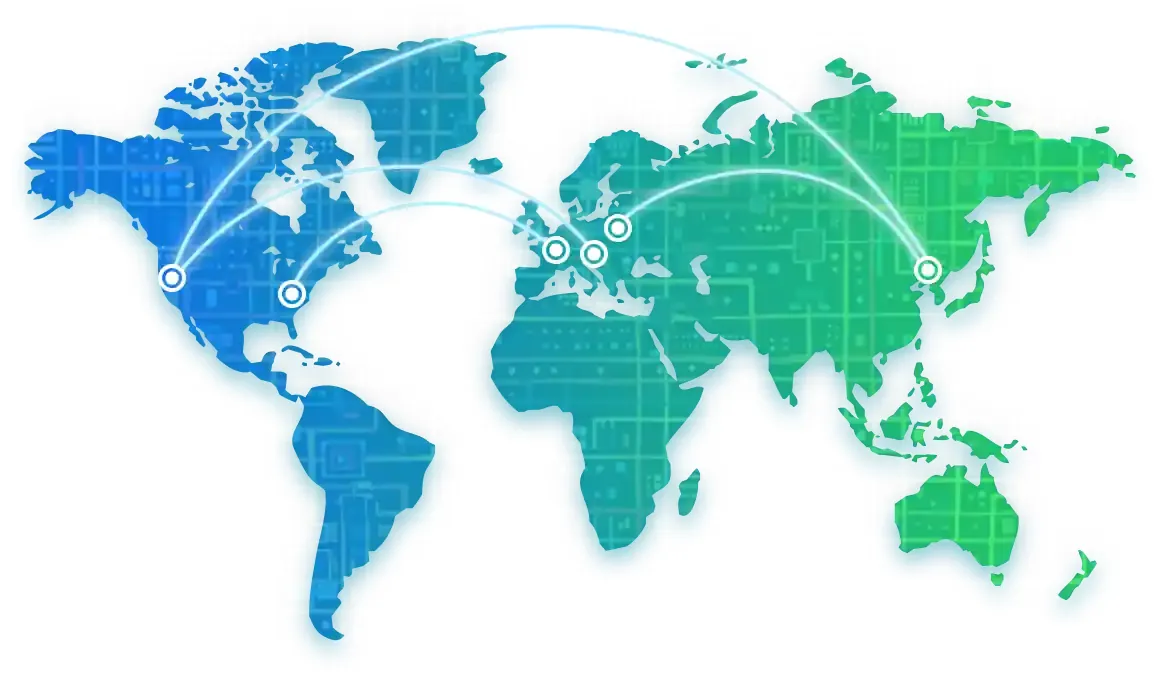
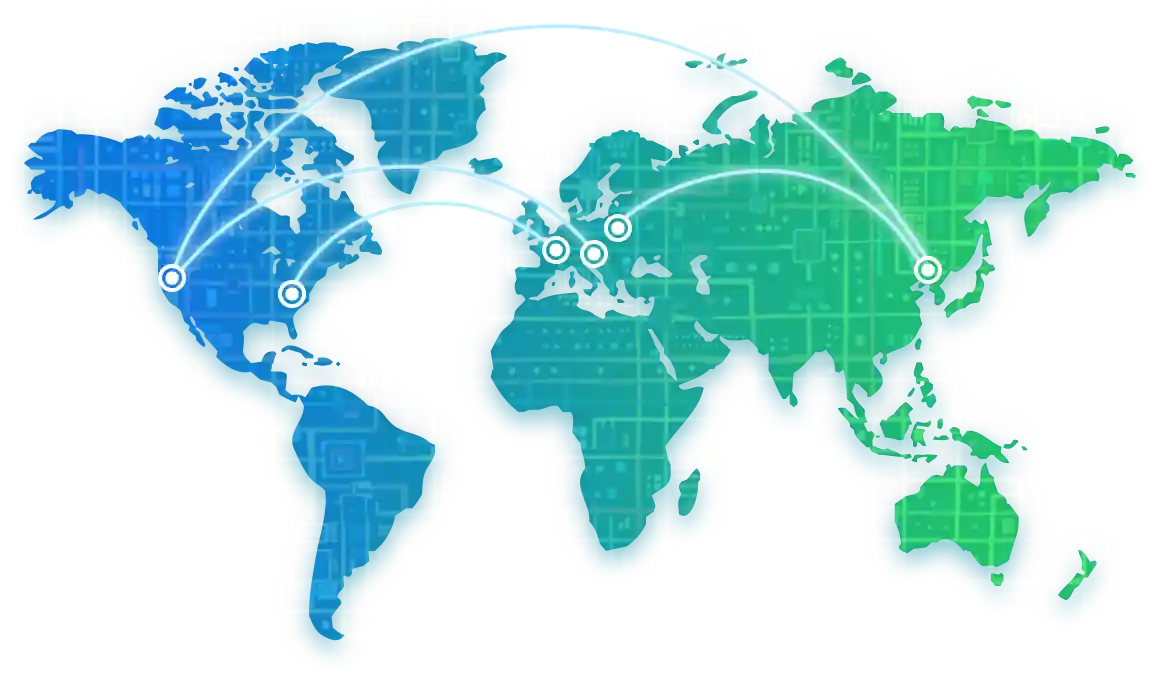
fix transparency

Changed region(s): [[0.8069, 0.614, 0.8379, 0.6447], [0.7759, 0.6447, 0.8069, 0.6754]]

diff --git a/scripts/optimize-images.py b/scripts/optimize-images.py
@@ -149,18 +149,29 @@ def optimize_image(
         
         # Open and convert image
         with Image.open(input_path) as img:
-            # Convert RGBA to RGB if necessary (WebP lossy doesn't support transparency well)
+            # Determine if we should preserve alpha channel
+            preserve_alpha = False
             save_img = img
+            
             if img.mode in ('RGBA', 'LA', 'P'):
-                # For images with transparency from PNG/GIF, keep transparency
-                if input_path.suffix.lower() in {'.png', '.gif'}:
-                    pass  # Keep original image with alpha
+                if input_path.suffix.lower() in {'.png', '.gif', '.jpg', '.jpeg'}:
+                    # PNG/GIF/misnamed JPG files - check if they actually have transparency
+                    # Convert palette mode to RGBA first
+                    if img.mode == 'P':
+                        if 'transparency' in img.info:
+                            save_img = img.convert('RGBA')
+                            preserve_alpha = True
+                        else:
+                            save_img = img.convert('RGB')
+                    elif img.mode in ('RGBA', 'LA'):
+                        save_img = img
+                        preserve_alpha = True
                 else:
-                    # Convert to RGB for JPEG-like images
+                    # Other formats - convert to RGB with white background
                     background = Image.new('RGB', img.size, (255, 255, 255))
                     if img.mode == 'P':
                         img = img.convert('RGBA')
-                    background.paste(img, mask=img.split()[-1] if img.mode == 'RGBA' else None)
+                    background.paste(img, mask=img.split()[-1] if img.mode in ('RGBA', 'LA') else None)
                     save_img = background
             
             # Iteratively reduce quality until image is under 100KB
@@ -169,8 +180,11 @@ def optimize_image(
             min_quality = 20  # Don't go below this to maintain reasonable image quality
             
             while current_quality >= min_quality:
-                # Save as WebP with current quality
-                save_img.save(output_path, 'WEBP', quality=current_quality, method=6)
+                # Save as WebP with current quality, preserving alpha if needed
+                if preserve_alpha:
+                    save_img.save(output_path, 'WEBP', quality=current_quality, method=6, lossless=False)
+                else:
+                    save_img.save(output_path, 'WEBP', quality=current_quality, method=6)
                 new_size = output_path.stat().st_size
                 
                 # Check if we're under 100KB
